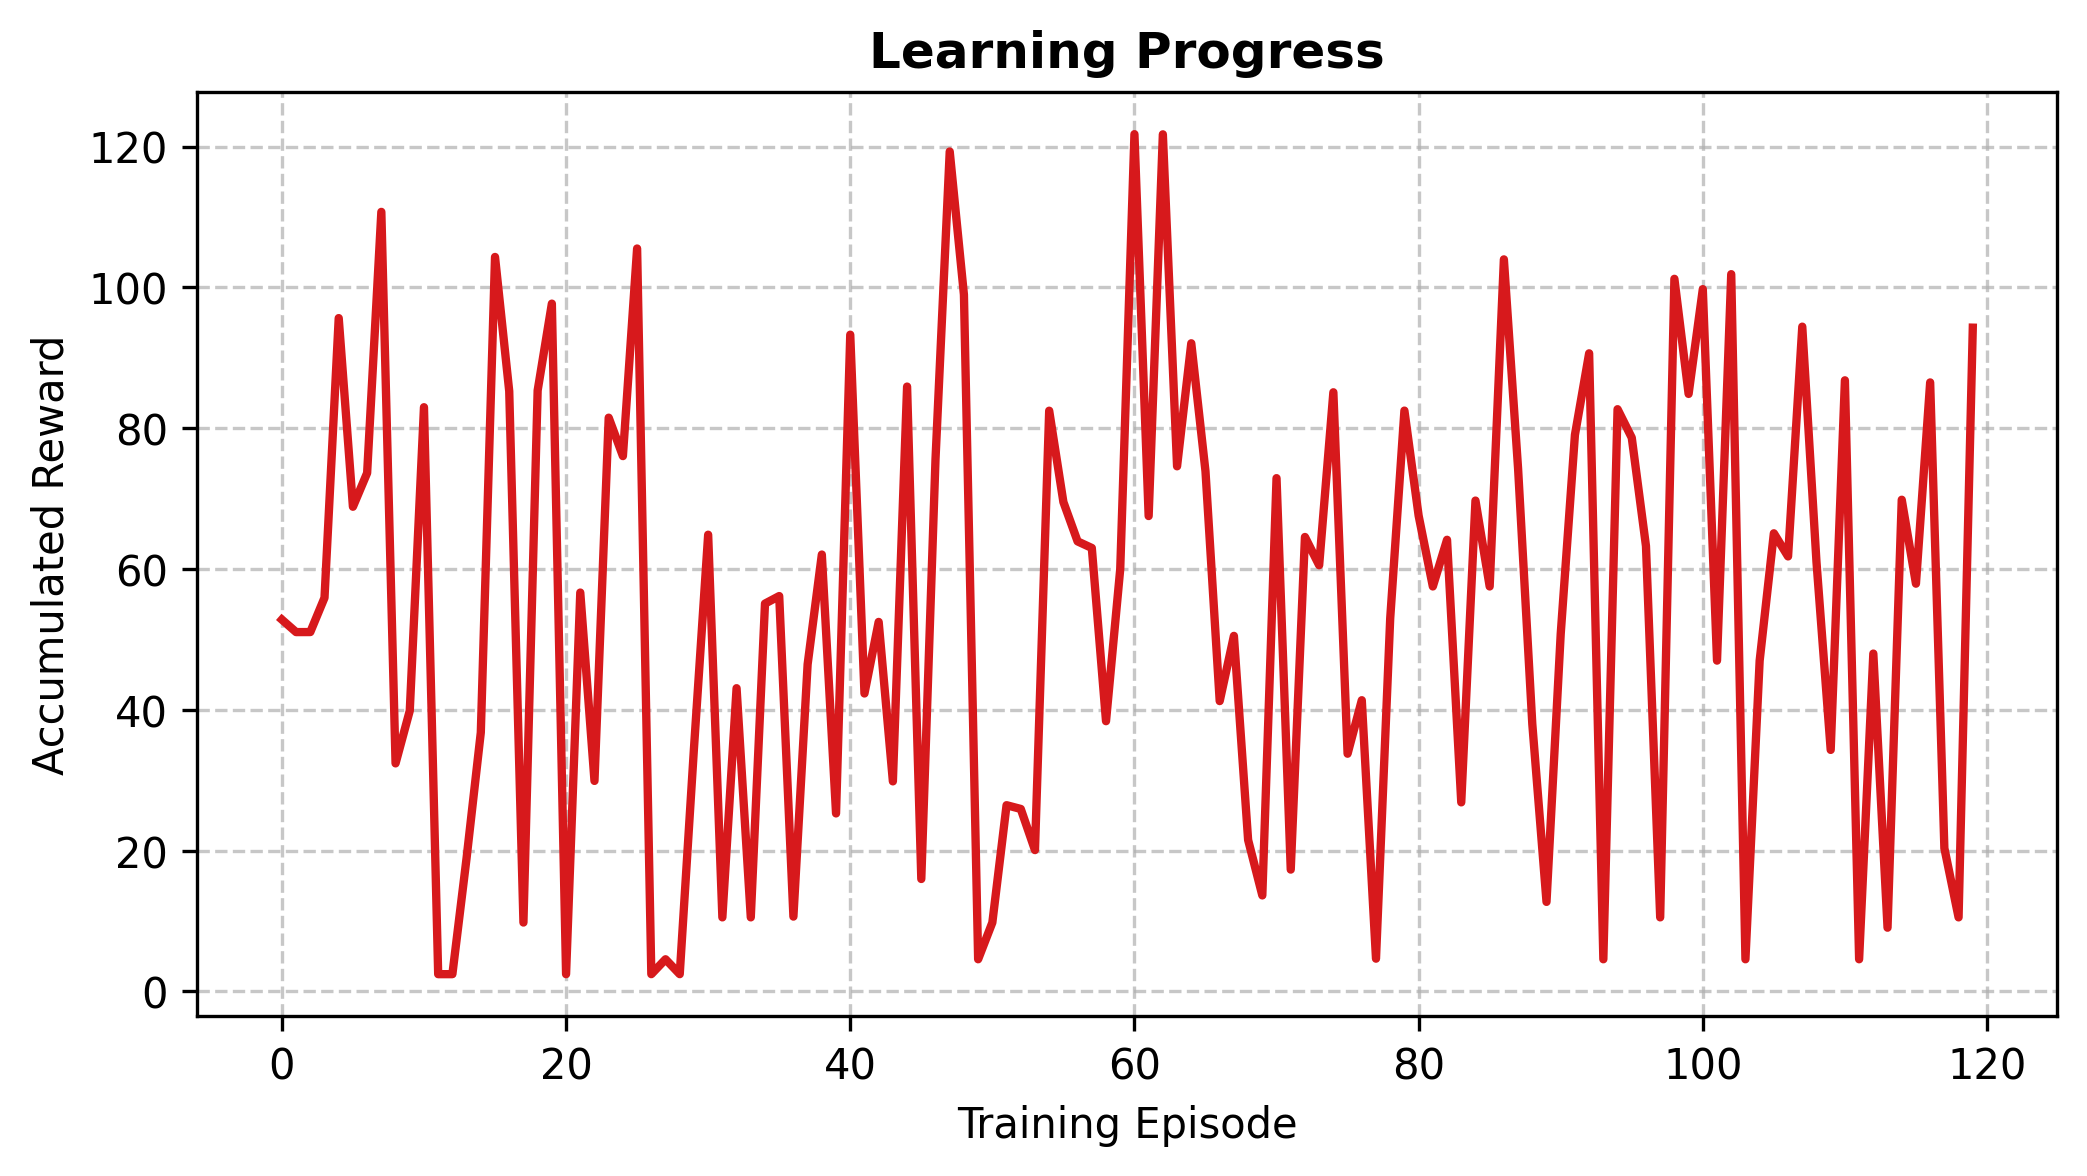
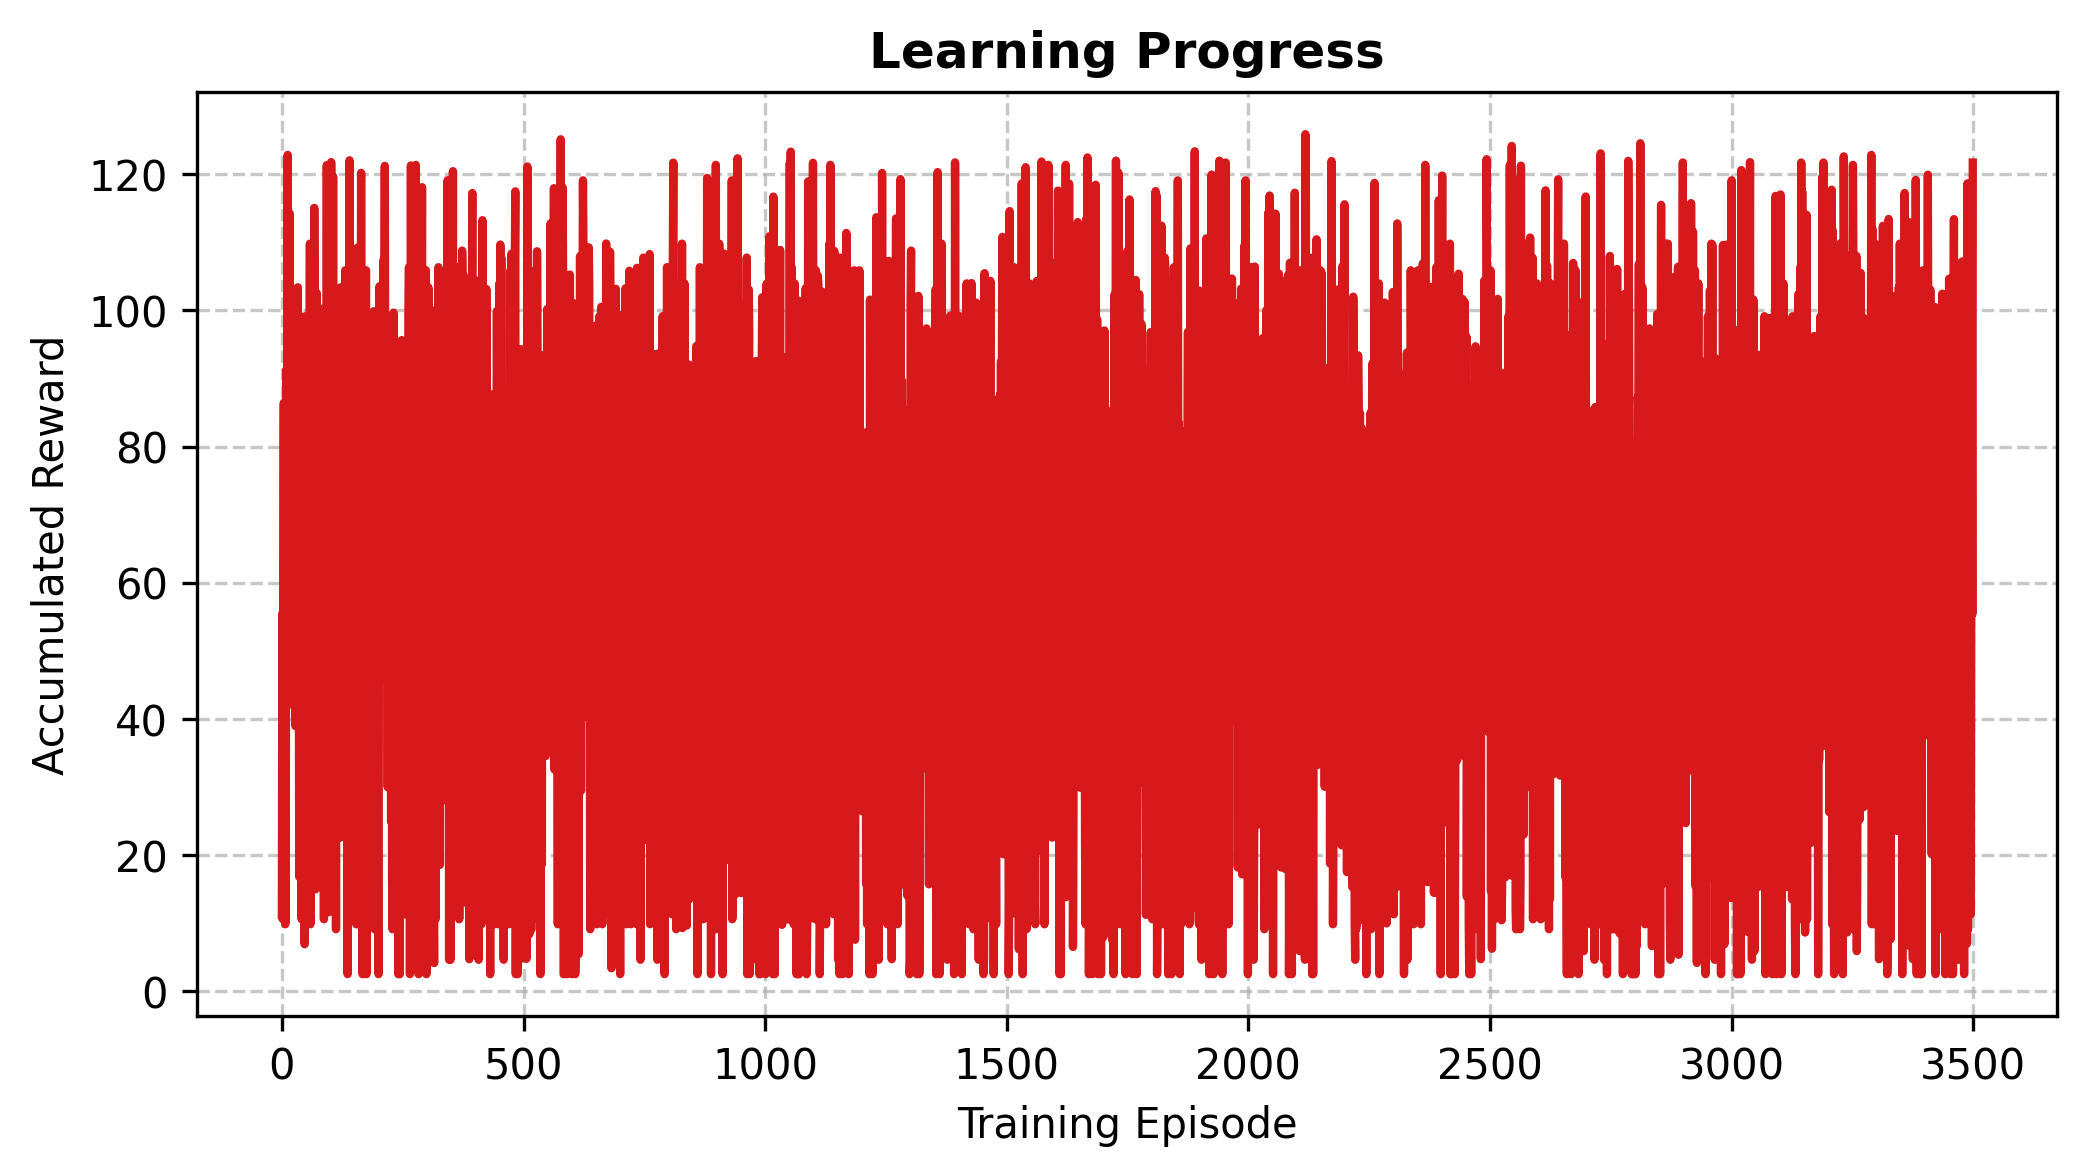
chore: update evaluation results and plots with latest metrics
The evaluation results and associated plots have been updated to reflect the latest metrics from the robust driving project. This includes changes to average speed, lane deviation, reward, and uncertainty values, ensuring the data is current and accurate.

diff --git a/robust_driving_project/evaluate.py b/robust_driving_project/evaluate.py
@@ -191,17 +191,20 @@ class Evaluator:
         plt.savefig("plots/training_progress.png", dpi=300, bbox_inches='tight')
         plt.close()
 
-        # Model uncertainty plot with paper's styling
+        # Model uncertainty plot 
         if self.metrics['episode_step_uncertainties']:
-            plt.figure(figsize=(10, 5))
+            plt.figure(figsize=(8, 6))
             sample_episode_idx = 0
             uncertainties = self.metrics['episode_step_uncertainties'][sample_episode_idx]
             threshold = self.ensemble_wrapper.threshold
             
-            plt.plot(uncertainties, color='#4daf4a', linewidth=1.5, label='Model Uncertainty')
+            # Fix: Use range for x-axis instead of undefined 'episodes'
+            time_steps = range(len(uncertainties))
+            plt.plot(time_steps, uncertainties, color='blue', linewidth=1.5, label='Model Uncertainty')
             plt.axhline(y=threshold, color='#984ea3', linestyle='--', linewidth=2, 
                        label=f'Safety Threshold ({threshold:.2f})')
-            plt.fill_between(range(len(uncertainties)), threshold, uncertainties, 
+            plt.ylim(1, max(uncertainties) + 0.5)  # Start y-axis from 1
+            plt.fill_between(time_steps, threshold, uncertainties, 
                              where=(np.array(uncertainties) > threshold), color='gray', alpha=0.3, step='mid')
             plt.title("Uncertainty Monitoring and Safety Intervention", fontsize=12, fontweight='bold')
             plt.xlabel("Time Step", fontsize=10)
@@ -238,7 +241,7 @@ class Evaluator:
         plt.savefig("uncertainty_distribution_plot.png")
         plt.close()
 
-        # Plot 1: Model Uncertainty & Fallback Switches Over Time (for the first episode as a sample)
+        # Plot 1: Model Uncertainty & Fallback Switches Over Time 
         if self.metrics['episode_step_uncertainties'] and self.metrics['episode_step_fallbacks']:
             plt.figure(figsize=(12, 6))
             
@@ -285,7 +288,25 @@ class Evaluator:
             plt.savefig("fallback_activation_rate_per_episode_plot.png")
             plt.close()
 
-        # Create uncertainty over episodes plot (similar to Fig. 3)
+        # Create average speed plot
+        plt.figure(figsize=(8, 6))
+        if len(self.metrics['average_speed']) > 1:
+            episodes = range(1, len(self.metrics['average_speed']) + 1)
+            speeds = self.metrics['average_speed']
+            
+            plt.plot(episodes, speeds, color='green', linewidth=1.5, label='Average Speed')
+            plt.axhline(y=25.36, color='red', linestyle='--', label='Target Speed (25.36 m/s)')
+            plt.ylim(0, 80)  # Set speed y-axis to 80
+            plt.xlabel('Episode', fontsize=12)
+            plt.ylabel('Average Speed (m/s)', fontsize=12)
+            plt.title('Average Speed during Evaluation')
+            plt.grid(True, linestyle='--', alpha=0.7)
+            plt.legend()
+            plt.tight_layout()
+            plt.savefig("plots/average_speed.png", dpi=300)
+            plt.close()
+
+        # Create uncertainty over episodes plot
         plt.figure(figsize=(8, 6))
         # If we have uncertainty data for multiple episodes
         if len(self.metrics['episode_step_uncertainties']) > 1:
@@ -302,14 +323,14 @@ class Evaluator:
             plt.savefig("plots/uncertainty_over_episodes.png", dpi=300)
             plt.close()
         
-        # Create reward convergence plot (similar to second image)
+        # Create reward convergence plot
         plt.figure(figsize=(8, 6))
         if len(self.metrics['episode_rewards']) > 1:
             episodes = range(1, len(self.metrics['episode_rewards']) + 1)
             rewards = self.metrics['episode_rewards']
             
-            # Plot the main reward line
             plt.plot(episodes, rewards, color='blue', linewidth=1.5, label='Rewards')
+            plt.ylim(0, 500)  # Set reward y-axis to 500
             
             # Add confidence interval if we have enough data points
             if len(rewards) > 5:
@@ -338,4 +359,4 @@ class Evaluator:
 
 if __name__ == "__main__":
     evaluator = Evaluator("sac_highway_model")
-    evaluator.evaluate(n_episodes=120)
+    evaluator.evaluate(n_episodes=3500)
